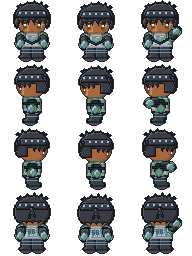
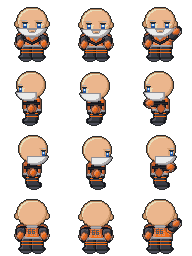
Area Champion by their rider's name; Dan Smyth redrawn
Boss, 28 Oct 2026: the Farmland Area Champion NPC takes its rider's name
(npcs.json rider) and says they're the current Area Champion. Dan Smyth is
an old bald racer with a white beard in an orange and black kit, no helmet.

Claude-Session: https://claude.ai/code/session_01NrCmSYmMqQM4A6rXkzAnwk

diff --git a/src/core/content.ts b/src/core/content.ts
@@ -33,6 +33,8 @@ export interface NpcDef {
   talk?: { if?: string; unless?: string; dialogue: string; sets?: string }[];
   /** The NPC ignores the rider until this flag is set (GDD 4.2: only the opening chain's NPCs talk at first). */
   quietUntil?: string;
+  /** The CPU rider this NPC is (riders.json): their name is shown over the NPC's head in place of name. */
+  rider?: string;
 }
 
 export interface DialogueLine {
@@ -86,7 +88,7 @@ export const NPCS_SCHEMA: Schema = {
       type: 'array',
       items: {
         type: 'object',
-        optional: ['map', 'tile', 'facing', 'talk', 'quietUntil'],
+        optional: ['map', 'tile', 'facing', 'talk', 'quietUntil', 'rider'],
         fields: {
           id: { type: 'string', pattern: ID },
           name: { type: 'string', nonEmpty: true },
@@ -100,6 +102,7 @@ export const NPCS_SCHEMA: Schema = {
             items: { type: 'object', optional: ['if', 'unless', 'sets'], fields: { if: { type: 'string', pattern: ID }, unless: { type: 'string', pattern: ID }, dialogue: { type: 'string', pattern: ID }, sets: { type: 'string', pattern: ID } } },
           },
           quietUntil: { type: 'string', pattern: ID },
+          rider: { type: 'string', pattern: ID },
         },
       },
     },
@@ -408,6 +411,13 @@ function checkCareerContent(c: Content, maps: Map<string, BakedMap>): ContentErr
     if (item.part && !slotIds.has(item.part.slot)) err(CONTENT_FILES.items, `items.${id}.part.slot`, `no slot "${item.part.slot}"`);
   }
 
+  // An NPC who is a CPU rider goes by that rider's current name (Boss, 28 Oct 2026: the Area Champion).
+  c.npcs.forEach((n, i) => {
+    if (!n.rider) return;
+    const r = c.riders.riders.find((x) => x.id === n.rider);
+    if (r) n.name = r.name;
+    else err(CONTENT_FILES.npcs, `npcs[${i}].rider`, `no rider "${n.rider}" in ${CONTENT_FILES.riders}`);
+  });
   const npcIds = new Set(c.npcs.map((n) => n.id));
   const item = (field: string, id: string) => !c.items[id] && err(CONTENT_FILES.story, field, `no item "${id}" in ${CONTENT_FILES.items}`);
   const lines = (field: string, id: string | undefined) => id && !c.dialogue[id] && err(CONTENT_FILES.story, field, `no dialogue "${id}" in ${CONTENT_FILES.dialogue}`);

diff --git a/README.md b/README.md
@@ -126,6 +126,8 @@ Checked against the last open line of the "Starter career slice" checklist (Syst
 - **The field.** 19 CPU riders drawn from the Area 1 pool when you enter, the same at every round. Each championship has a **main rider**, the one to beat and the best rider in it on skill (Boss, 28 Oct 2026): **Louis Jonez** (now level 15) is the Local Champion, and **Dean Marsh** is the placeholder Area 1 Champion. Dean stays out of the Local Championship; Louis races in both. Everyone else races **10% better** in a championship (skills and bike condition), set by `buff` in `championships.json`. Normal race days and challenges are unchanged.
 - **Qualifying** at every round (Spec 12.2): an untimed out lap from the gate, then 3 timed laps with the pit board as in a moto (or Auto-complete). The best timed lap sets the gate pick order for moto 1; it scores no points. The live tower shows the order of best timed laps. Qualifying wears the bike and gives the laps' XP (no finishing bonus), and counts as one step for the ruts (Round 111).
 - **Field of 16.** Championships race 16 riders on two rows of 8, the same start as a race day (Boss, 28 Oct 2026: it looks cleaner than 20 on three rows).
+- **Area Champion by name.** The Area Champion at Farmland shows their rider's current name over their head (Dean Marsh for now, from `rider` in npcs.json) and says they're the current Area Champion.
+- **Dan Smyth** is an old bald racer with the Farmland track official's white beard, in an orange and black kit with no helmet (`tools/art` character script in project files).
 - **Roadworks until Louis.** The roadworks on the west road out of Home Town (the way to Farmland and the other tracks) stay up through the tutorial and the van, and come down when Louis Jonez tells you where to race (Boss, 28 Oct 2026).
 - **Route marshals removed** (Boss, 28 Oct 2026). Roads out with a choice of places ask "Where to?" at the road, as before.
 - **Chat windows:** Next and Close are a black-on-orange button in the corner of the box. Racers who don't talk before the tutorial is done go by their name ("Louis Jonez doesn't look up."), not "The louis jonez".
